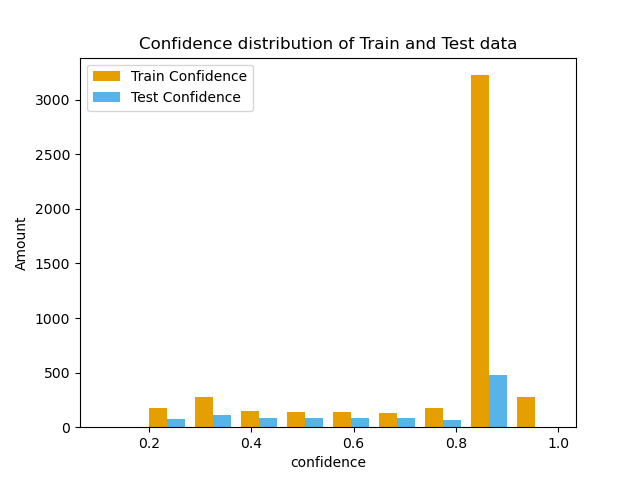
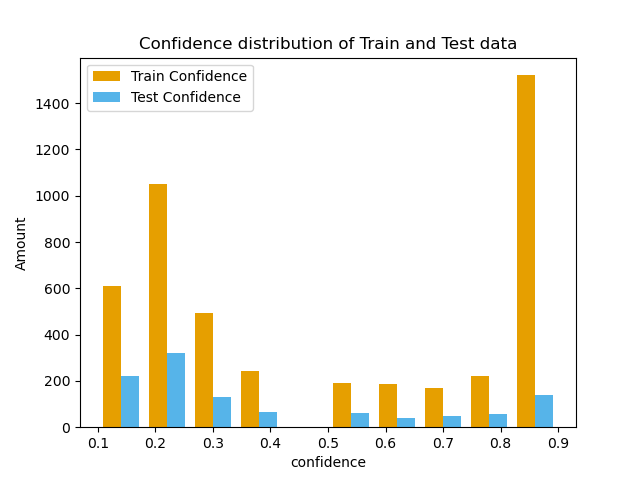
# updated visualization with custom accuracy

diff --git a/ANN model/ann.py b/ANN model/ann.py
@@ -57,13 +57,7 @@ class TrafficClassifier(object):
             correct = K.cast(K.equal(targ, pred), dtype='float32')
             Pmax = K.cast(K.max(y_pred, axis=-1), dtype='float32')
 
-            assert tf.math.reduce_all(
-                            tf.math.equal(
-                                        K.shape(correct), 
-                                        K.shape(Pmax)
-                                         )
-                                     ),"Invalid Dimension in custom accuracy"
-            Pmax = tf.multiply(Pmax , correct)
+            Pmax = Pmax * correct
             mask = K.cast(K.greater(Pmax, custom_acc), dtype='float32')
 
             return K.mean(mask)
@@ -74,11 +68,11 @@ class TrafficClassifier(object):
         self.model.compile(
             loss='categorical_crossentropy',
             optimizer=Adam(learning_rate),
-            metrics=['accuracy']
-            # metrics=[
-            #     TrafficClassifier.network_acc(
-            #                             custom_acc=custom_acc
-            #                                  )]
+            # metrics=['accuracy']
+            metrics=[
+                TrafficClassifier.network_acc(
+                                        custom_acc=custom_acc
+                                             )]
         )
         self.history = self.model.fit(
                             self.X,
@@ -93,11 +87,11 @@ class TrafficClassifier(object):
         loaded_model.compile(
                         loss='categorical_crossentropy',
                         optimizer=Adam(learning_rate),
-                        metrics=['accuracy']
-                        # metrics=[
-                        #     TrafficClassifier.network_acc(
-                        #                             custom_acc=custom_acc
-                        #                                 )]
+                        # metrics=['accuracy']
+                        metrics=[
+                            TrafficClassifier.network_acc(
+                                                    custom_acc=custom_acc
+                                                        )]
                         )
         self.model = loaded_model
 

diff --git a/ANN model/variables.py b/ANN model/variables.py
@@ -10,7 +10,7 @@ n_classes = 63
 
 learning_rate = 0.0001
 batch_size = 64
-num_epoches = 200
+num_epoches = 20
 validation_split = 0.15
 custom_acc = 0.9
 
